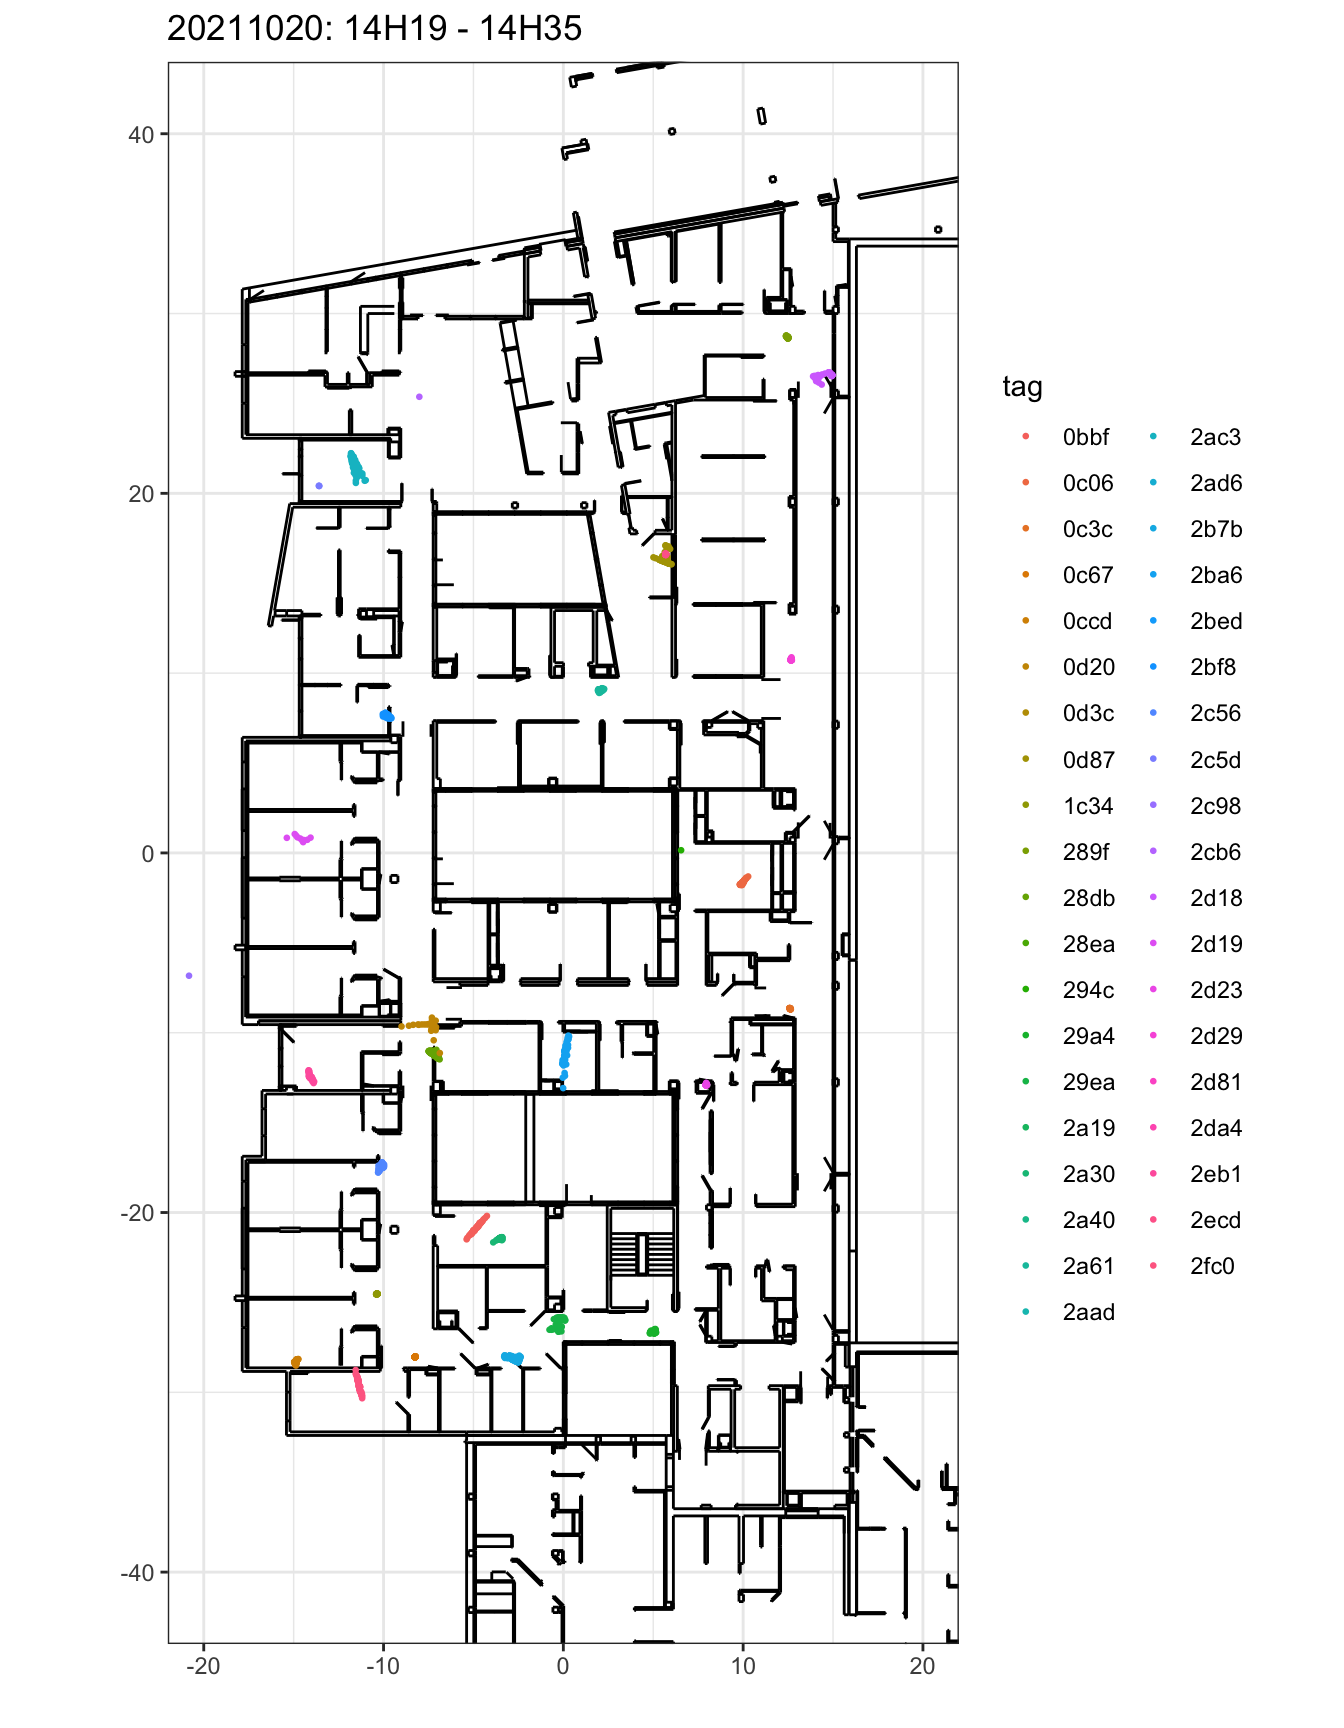
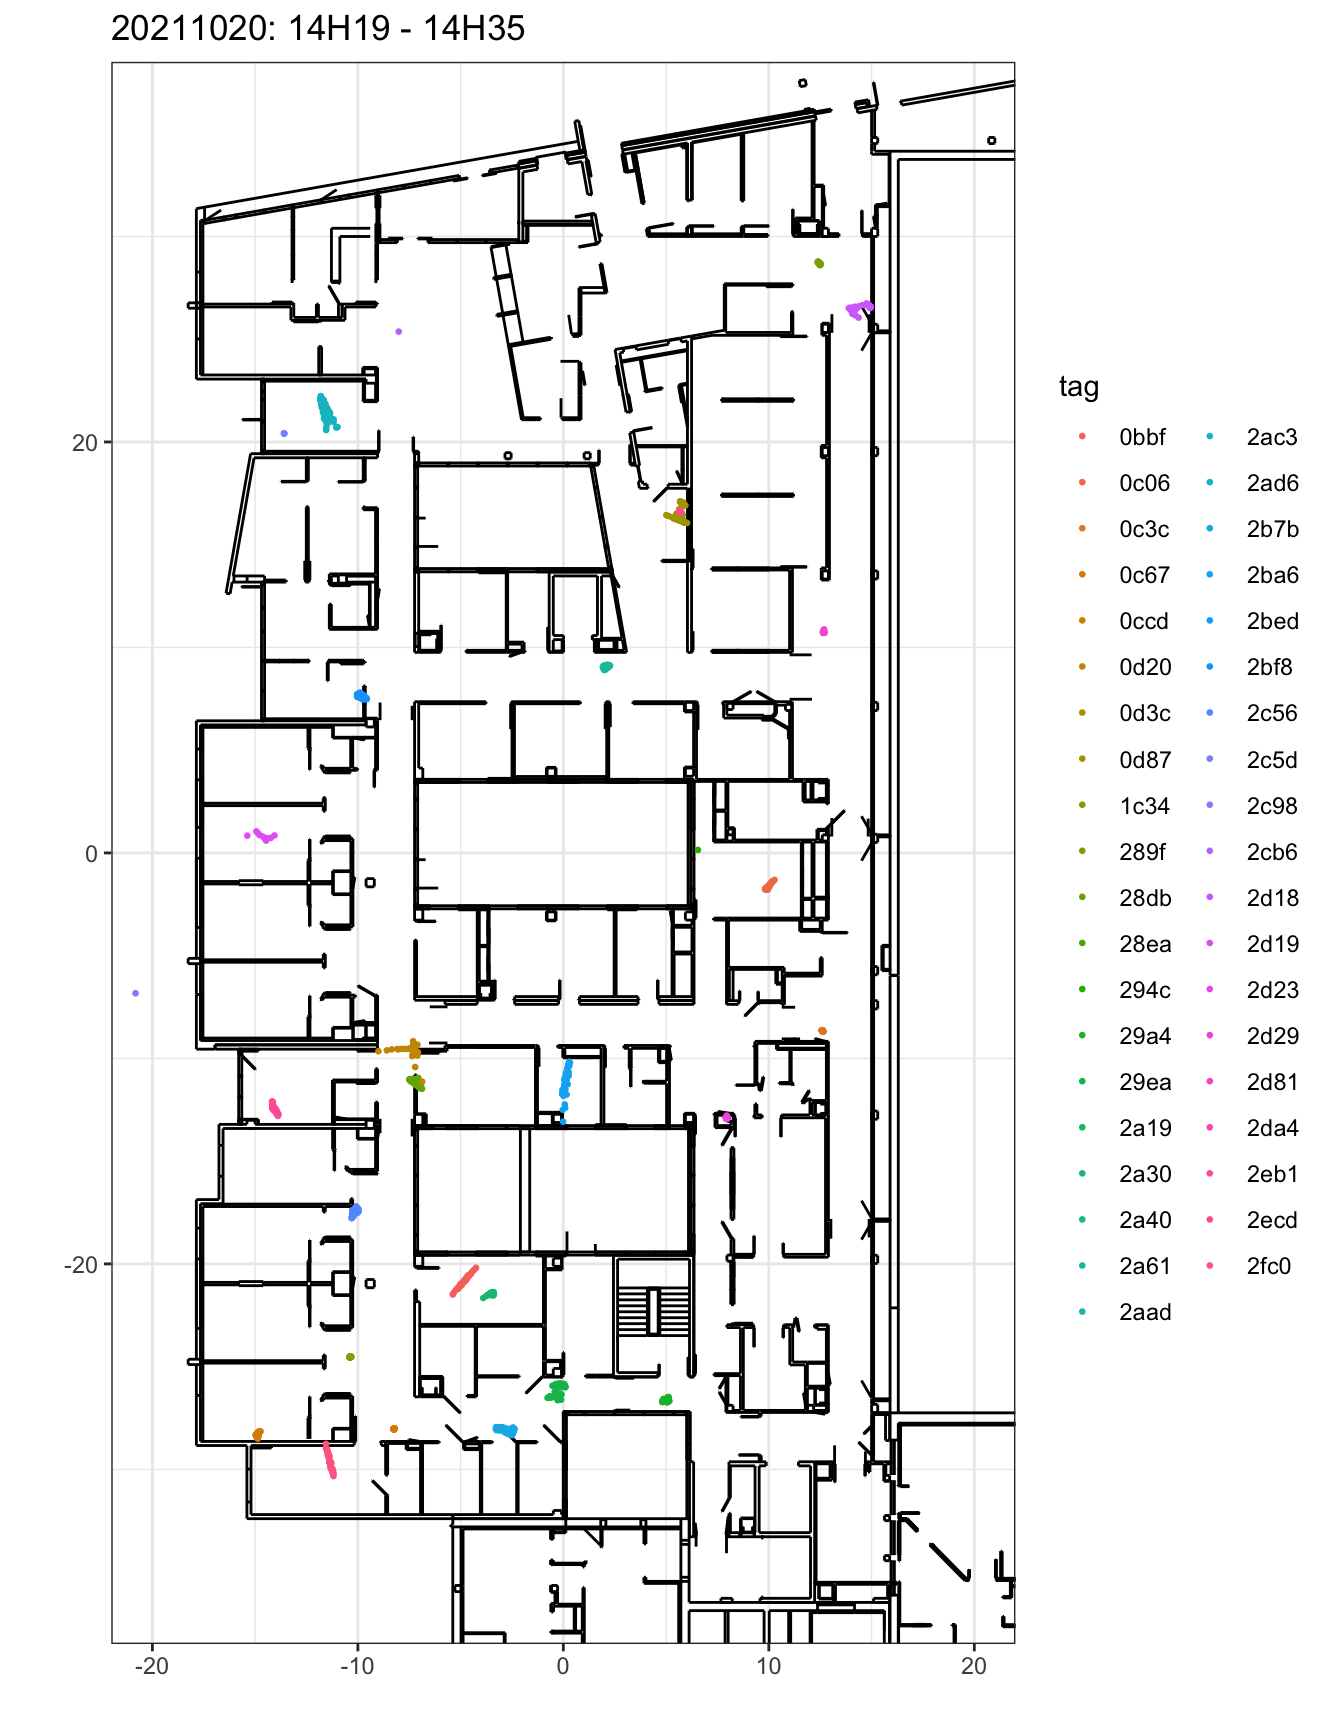
Build site.

diff --git a/docs/2021-10-19-Test.html b/docs/2021-10-19-Test.html
@@ -505,16 +505,16 @@ This reproducible <a href="http://rmarkdown.rstudio.com">R Markdown</a> analysis
 <div class="panel panel-default">
 <div class="panel-heading">
 <p class="panel-title">
-<a data-toggle="collapse" data-parent="#workflowr-checks" href="#strongRepositoryversionstrongahrefhttpsgithubcomcfcforeverTesttree0e46043b15726b060077ff395723581500e139dctargetblank0e46043a"> <span class="glyphicon glyphicon-ok text-success" aria-hidden="true"></span> <strong>Repository version:</strong> <a href="https://github.com/cfcforever/Test/tree/0e46043b15726b060077ff395723581500e139dc" target="_blank">0e46043</a> </a>
+<a data-toggle="collapse" data-parent="#workflowr-checks" href="#strongRepositoryversionstrongahrefhttpsgithubcomcfcforeverTesttreebb9e3dd779cbaa1663b9f3ad78796bec2bf38b3atargetblankbb9e3dda"> <span class="glyphicon glyphicon-ok text-success" aria-hidden="true"></span> <strong>Repository version:</strong> <a href="https://github.com/cfcforever/Test/tree/bb9e3dd779cbaa1663b9f3ad78796bec2bf38b3a" target="_blank">bb9e3dd</a> </a>
 </p>
 </div>
[2 lines of base64/hex data omitted]
 <div class="panel-body">
 <p>
 Great! You are using Git for version control. Tracking code development and connecting the code version to the results is critical for reproducibility.
 </p>
 <p>
-The results in this page were generated with repository version <a href="https://github.com/cfcforever/Test/tree/0e46043b15726b060077ff395723581500e139dc" target="_blank">0e46043</a>. See the <em>Past versions</em> tab to see a history of the changes made to the R Markdown and HTML files.
+The results in this page were generated with repository version <a href="https://github.com/cfcforever/Test/tree/bb9e3dd779cbaa1663b9f3ad78796bec2bf38b3a" target="_blank">bb9e3dd</a>. See the <em>Past versions</em> tab to see a history of the changes made to the R Markdown and HTML files.
 </p>
 <p>
 Note that you need to be careful to ensure that all relevant files for the analysis have been committed to Git prior to generating the results (you can use <code>wflow_publish</code> or <code>wflow_git_commit</code>). workflowr only checks the R Markdown file, but you know if there are other scripts or data files that it depends on. Below is the status of the Git repository when the results were generated:
@@ -571,6 +571,40 @@ Message
 </tr>
 </thead>
 <tbody>
+<tr>
+<td>
+Rmd
+</td>
+<td>
+<a href="https://github.com/cfcforever/Test/blob/bb9e3dd779cbaa1663b9f3ad78796bec2bf38b3a/analysis/2021-10-19-Test.Rmd" target="_blank">bb9e3dd</a>
+</td>
+<td>
+cfcforever
+</td>
+<td>
+2021-10-24
+</td>
+<td>
+add new analysis
+</td>
+</tr>
+<tr>
+<td>
+html
+</td>
+<td>
+<a href="https://rawcdn.githack.com/cfcforever/Test/6e10d4d589500a97a8ec61f9ead9def3e7c9ca7c/docs/2021-10-19-Test.html" target="_blank">6e10d4d</a>
+</td>
+<td>
+cfcforever
+</td>
+<td>
+2021-10-24
+</td>
+<td>
+Build site.
+</td>
+</tr>
 <tr>
 <td>
 Rmd
@@ -2764,7 +2798,7 @@ dat$y = dat$y/100
 
 q &lt;- p +
   geom_point(data = dat, aes(x=x, y=y, col=tag), size = 0.5) +
-  coord_fixed(ratio = 1, xlim = c(-20,20), ylim = c(-40,40)) +
+  coord_fixed(ratio = 1, xlim = c(-20,20), ylim = c(-35,35)) +
   labs(x=&quot;&quot;, y=&quot;&quot;, title = &quot;20211020: 14H19 - 14H35&quot;)
 q</code></pre>
 <pre><code>Warning: Removed 783 rows containing missing values (geom_point).</code></pre>
@@ -2851,7 +2885,7 @@ dat$y = dat$y/100
 
 q &lt;- p +
   geom_point(data = dat, aes(x=x, y=y, col=tag), size = 0.5) +
-  coord_fixed(ratio = 1, xlim = c(-20,20), ylim = c(-40,40)) +
+  coord_fixed(ratio = 1, xlim = c(-20,20), ylim = c(-35,35)) +
   labs(x=&quot;&quot;, y=&quot;&quot;, title = &quot;20211022: 12H46 - 13H02&quot;)
 q</code></pre>
 <pre><code>Warning: Removed 1221 rows containing missing values (geom_point).</code></pre>
@@ -2878,6 +2912,17 @@ Date
 </tr>
 </thead>
 <tbody>
+<tr>
+<td>
+<a href="https://github.com/cfcforever/Test/blob/6e10d4d589500a97a8ec61f9ead9def3e7c9ca7c/docs/figure/2021-10-19-Test.Rmd/unnamed-chunk-17-1.png" target="_blank">6e10d4d</a>
+</td>
+<td>
+cfcforever
+</td>
+<td>
+2021-10-24
+</td>
+</tr>
 <tr>
 <td>
 <a href="https://github.com/cfcforever/Test/blob/bbfb2e0bd78dc8f499c1b4782036ece7ecc29bd1/docs/figure/2021-10-19-Test.Rmd/unnamed-chunk-17-1.png" target="_blank">bbfb2e0</a>
@@ -2916,7 +2961,7 @@ dat$y = dat$y/100
 
 q &lt;- p +
   geom_point(data = dat, aes(x=x, y=y, col=tag), size = 0.5) +
-  coord_fixed(ratio = 1, xlim = c(-20,20), ylim = c(-40,40)) +
+  coord_fixed(ratio = 1, xlim = c(-20,20), ylim = c(-35,35)) +
   labs(x=&quot;&quot;, y=&quot;&quot;, title = &quot;20211022: 14H28 - 15H11&quot;)
 q</code></pre>
 <pre><code>Warning: Removed 11842 rows containing missing values (geom_point).</code></pre>
@@ -2943,6 +2988,17 @@ Date
 </tr>
 </thead>
 <tbody>
+<tr>
+<td>
+<a href="https://github.com/cfcforever/Test/blob/6e10d4d589500a97a8ec61f9ead9def3e7c9ca7c/docs/figure/2021-10-19-Test.Rmd/unnamed-chunk-18-1.png" target="_blank">6e10d4d</a>
+</td>
+<td>
+cfcforever
+</td>
+<td>
+2021-10-24
+</td>
+</tr>
 <tr>
 <td>
 <a href="https://github.com/cfcforever/Test/blob/bbfb2e0bd78dc8f499c1b4782036ece7ecc29bd1/docs/figure/2021-10-19-Test.Rmd/unnamed-chunk-18-1.png" target="_blank">bbfb2e0</a>
